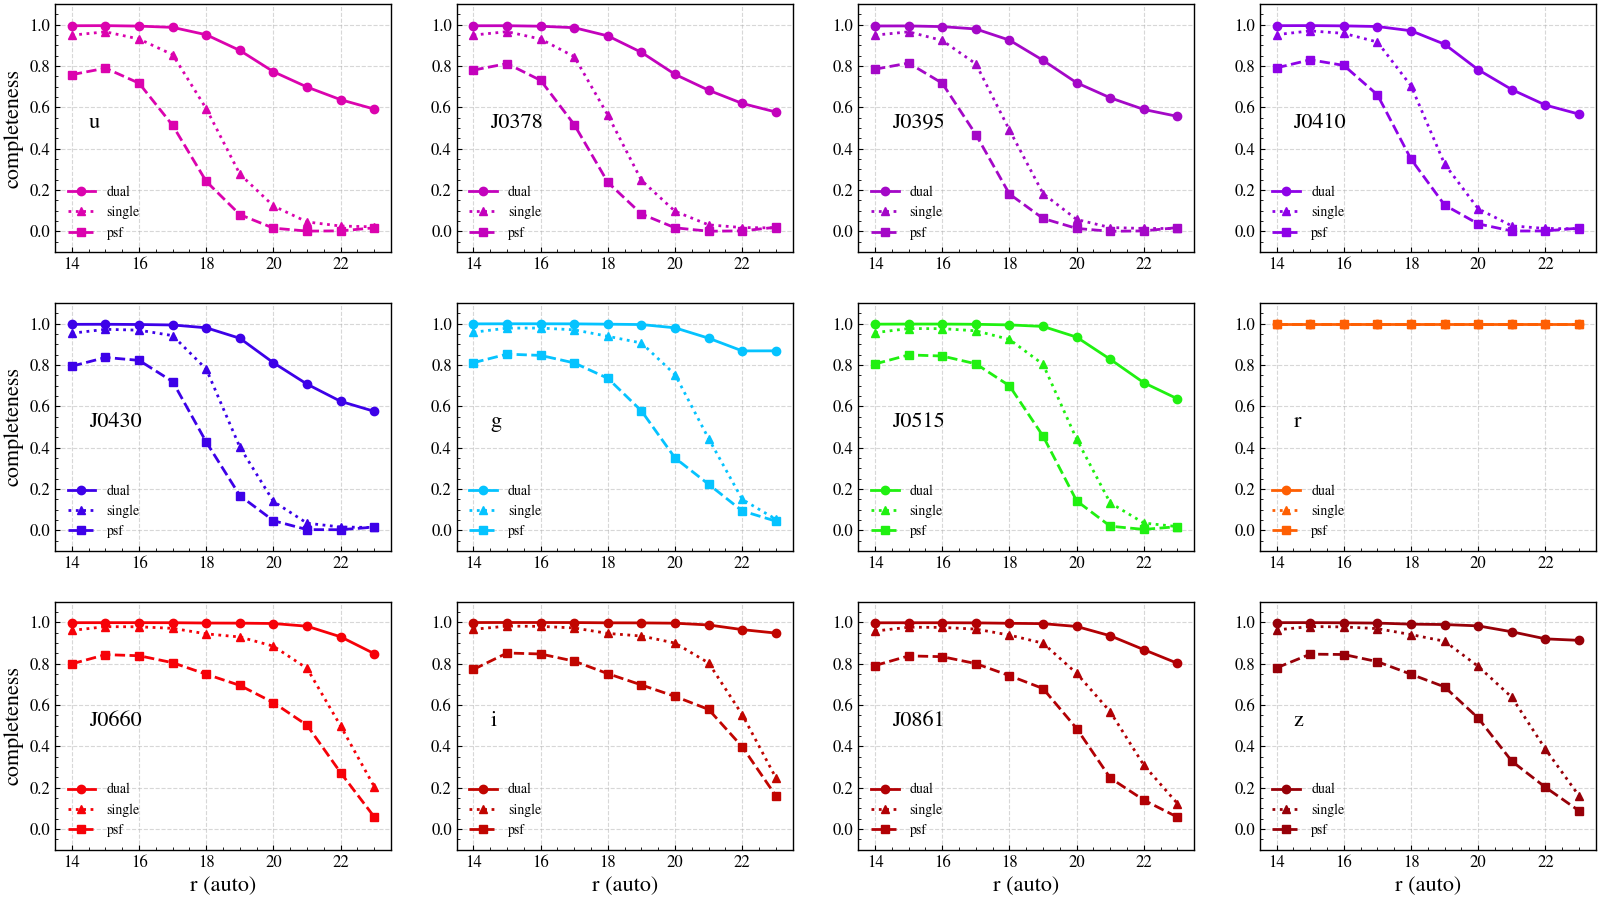
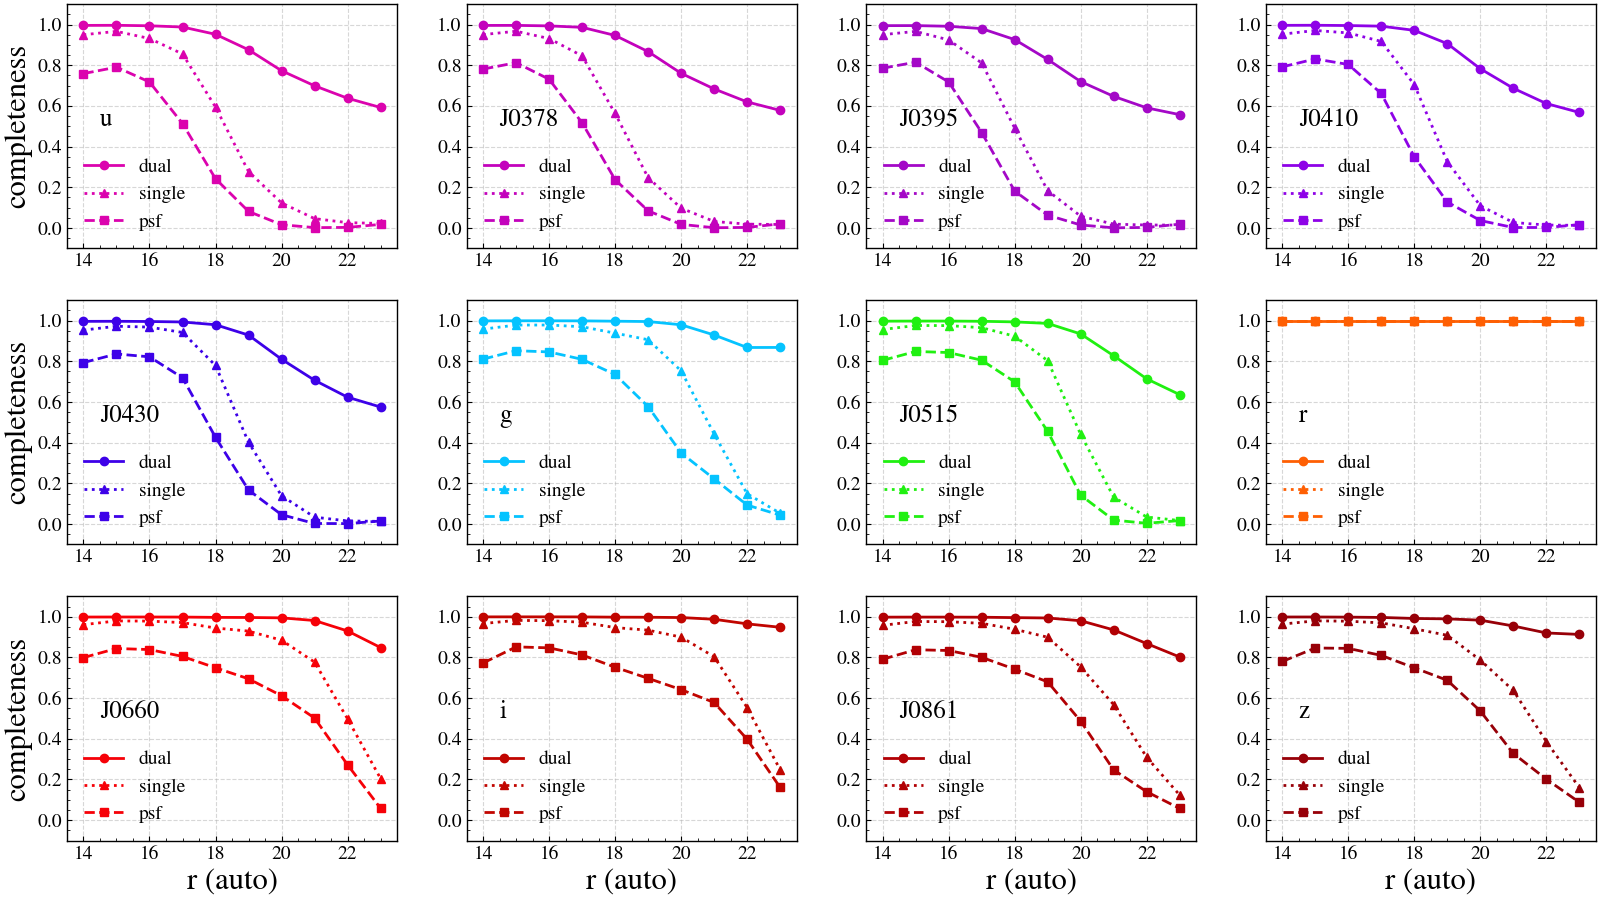
plot completness minor changes

diff --git a/codes/completeness.py b/codes/completeness.py
@@ -87,21 +87,21 @@ for i,band in enumerate(['u','J0378','J0395','J0410','J0430','g','J0515','r','J0
     # ax_list[i].set_xlabel('R')
     
     if i % 4 == 0:
-        ax_list[i].set_ylabel('completeness')
+        ax_list[i].set_ylabel('completeness', fontsize=22)
     
     if i >= 8:
-        ax_list[i].set_xlabel('r (auto)')
+        ax_list[i].set_xlabel('r (auto)', fontsize=22)
     
-    ax_list[i].text(14.5,0.5,band)
-    ax_list[i].legend(loc='lower left', ncol=1, frameon=False, fontsize=10)
+    ax_list[i].text(14.5,0.5,band, fontsize=18)
+    ax_list[i].legend(loc='lower left', ncol=1, frameon=False, fontsize=14)
     ax_list[i].set_xlim(13.5,23.5)
     ax_list[i].set_ylim(-0.1,1.1)
     ax_list[i].set_xticks(np.arange(14,24,2))
     ax_list[i].set_yticks(np.arange(0,1.1,0.2))
     ax_list[i].grid(ls='--', alpha=0.5)
     ax_list[i].set_axisbelow(True)
-    ax_list[i].tick_params(axis='x', labelsize=12)  # Set x-ticks font size
-    ax_list[i].tick_params(axis='y', labelsize=12)  # Set y-ticks font size
+    ax_list[i].tick_params(axis='x', labelsize=14)  # Set x-ticks font size
+    ax_list[i].tick_params(axis='y', labelsize=14)  # Set y-ticks font size
 
 
 plt.savefig('../plots/completeness.png', dpi=100)
